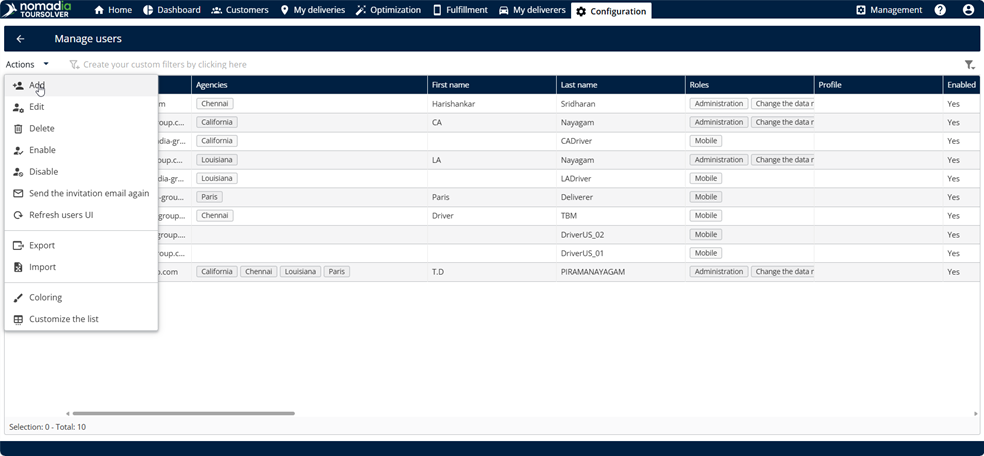
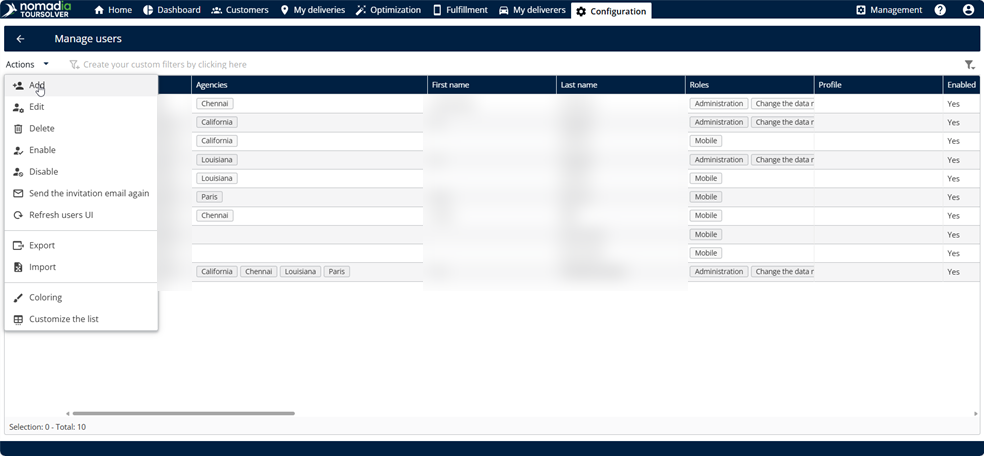
Apply the review feedback of 16 November: downloadable use-case files, removed points, blurred user data

diff --git a/operationsandroutemanagement/diagnose-unplanned-visits-and-inconsistent-routes.md b/operationsandroutemanagement/diagnose-unplanned-visits-and-inconsistent-routes.md
@@ -39,7 +39,6 @@ For the messages about capacities, skills, and working days, see [Why are no vis
 <figure><img src="../.gitbook/assets/RouteDiagnosis_InaccessiblePoint_001.jpg" alt=""><figcaption></figcaption></figure>
 
 2. Correct the address or the coordinates of the visit. See [Fix Addresses That Are Not Geocoded](../importanddatasetup/fix-addresses-that-are-not-geocoded.md).
-3. If the address is correct, check that the means of transportation of the resources can reach it, and that the country of the visit is covered by your configuration.
 
 ## Fix the time windows
 
@@ -100,7 +99,11 @@ Two users get different routes when they do not optimize the same data with the 
 
 ## Use case: diagnose unplanned visits
 
-Download the sample file [UseCase\_RouteDiagnosis.xlsx](../.gitbook/assets/UseCase_RouteDiagnosis.xlsx). It contains 14 deliveries around Washington, DC, for resources that leave from Maryland. The **Use cases** sheet describes each row.
+Download the sample file below. It contains 14 deliveries around Washington, DC, for resources that leave from Maryland. The **Use cases** sheet describes each row.
+
+{% file src="../.gitbook/assets/UseCase_RouteDiagnosis.xlsx" %}
+UseCase_RouteDiagnosis.xlsx
+{% endfile %}
 
 | Row | Use case | Result in the Warnings window |
 | --- | -------- | ----------------------------- |

diff --git a/faq/why-is-my-optimization-slow-stuck-or-interrupted.md b/faq/why-is-my-optimization-slow-stuck-or-interrupted.md
@@ -45,7 +45,7 @@ Find out why an optimization takes a long time, seems stuck, or shows the messag
 
 ## Avoid simultaneous optimizations
 
-Several optimizations that run at the same time, in several browser tabs or by several users of your account, share the same resources and are slower.
+Several optimizations that run at the same time by several users of your account share the same resources and are slower.
 
 * Wait for an optimization to finish before you start another one.
 * Close the browser tabs that you do not use.
@@ -59,7 +59,11 @@ Several optimizations that run at the same time, in several browser tabs or by s
 
 ## Use case: optimize a large volume
 
-Download the sample file [UseCase\_LargeVolume.xlsx](../.gitbook/assets/UseCase_LargeVolume.xlsx). It contains 300 deliveries positioned with GPS coordinates around Washington, DC.
+Download the sample file below. It contains 300 deliveries positioned with GPS coordinates around Washington, DC.
+
+{% file src="../.gitbook/assets/UseCase_LargeVolume.xlsx" %}
+UseCase_LargeVolume.xlsx
+{% endfile %}
 
 1. Import the file in **My deliveries**, and then start the optimization with 15 resources over 5 days.
 2. Click **Detailed information**. After about 20 seconds, the first result already plans the 300 deliveries, with a **Time left** of 29 minutes.

diff --git a/faq/i-cannot-log-in-to-toursolver-web.md b/faq/i-cannot-log-in-to-toursolver-web.md
@@ -25,16 +25,7 @@ Solve the most common sign-in problems yourself, and find out what to send to su
 
 ## Reset a forgotten password
 
-If you have forgotten your password, follow these steps. For the complete procedure, see [Reset a forgotten password](../getting-started/log-in-to-toursolver.md#reset-a-forgotten-password).
-
-1. On the **Sign in to your account** page, click **Forgot your password?**.
-2. On the **Reset your password** page, enter the **E-mail address** of your TourSolver account, and then click **Send the validation code**.
-
-<figure><img src="../.gitbook/assets/LogIn_ForgotPassword_001.jpg" alt=""><figcaption></figcaption></figure>
-
-3. Type the validation code that you receive by email, and then click **Next**.
-4. Enter your new password twice, and then confirm.
-5. Log in with your new password.
+If you have forgotten your password, click **Forgot your password?** on the sign-in page. For the complete procedure, see [Reset a forgotten password](../getting-started/log-in-to-toursolver.md#reset-a-forgotten-password).
 
 If you do not receive the validation code:
 

diff --git a/operationsandroutemanagement/optimize-over-several-weeks-with-frequencies.md b/operationsandroutemanagement/optimize-over-several-weeks-with-frequencies.md
@@ -52,7 +52,11 @@ Plan visits that must be performed several times over a period, for example twic
 
 ## Use case: plan two visits per customer
 
-Download the sample file [UseCase\_Frequencies.xlsx](../.gitbook/assets/UseCase_Frequencies.xlsx). It contains 10 customers around Washington, DC, with an **Opening day** of **1-10** and a **Visit frequency** of **2/10**. The resources of the team work days 1 to 5.
+Download the sample file below. It contains 10 customers around Washington, DC, with an **Opening day** of **1-10** and a **Visit frequency** of **2/10**. The resources of the team work days 1 to 5.
+
+{% file src="../.gitbook/assets/UseCase_Frequencies.xlsx" %}
+UseCase_Frequencies.xlsx
+{% endfile %}
 
 1. Import the file and optimize it. No visit is planned: each customer shows "The frequency denominator is bigger than the number of days", because the resources work only 5 of the 10 days.
 2. In the file, change the **Visit frequency** to **2/5** and the **Opening day** to **1-5**, and then import and optimize it again.

diff --git a/importanddatasetup/manage-agencies.md b/importanddatasetup/manage-agencies.md
@@ -1,6 +1,6 @@
 # Manage Agencies
 
-Share your resources between your agencies, move users and deliverers from one agency to another, and transfer the rights of a user to another user.
+Share your resources between your agencies, and move users and deliverers from one agency to another.
 
 ## Before you begin
 
@@ -59,11 +59,6 @@ The deliverer belongs to the new agency and counts in its **Used resources**.
 ### Result
 
 The user sees the data of the new agency. A user can also keep several assigned agencies to see the data of each of them.
-
-## Transfer the rights of a user to another user
-
-1. Create the new user from the existing user, so that the new user gets the same **Roles & rights** and **Agencies**. See [Modify an existing user](importanddatasetup-createandmodifyauser.md#modify-an-existing-user).
-2. To also transfer the data of the user, such as the optimizations, contact support. See [Replace a user and keep their data](importanddatasetup-createandmodifyauser.md#replace-a-user-and-keep-their-data).
 
 ## Tips
 

diff --git a/faq/why-are-no-visits-planned-after-the-optimization.md b/faq/why-are-no-visits-planned-after-the-optimization.md
@@ -76,7 +76,11 @@ If the visits are compatible but some are still unplanned:
 
 ## Use case: visits that cannot be planned
 
-Download the sample file [UseCase\_UnplannedVisits.xlsx](../.gitbook/assets/UseCase_UnplannedVisits.xlsx). It contains 16 deliveries around Washington, DC, for resources with a capacity of 50 that work days 1 to 5. The **Use cases** sheet describes each row.
+Download the sample file below. It contains 16 deliveries around Washington, DC, for resources with a capacity of 50 that work days 1 to 5. The **Use cases** sheet describes each row.
+
+{% file src="../.gitbook/assets/UseCase_UnplannedVisits.xlsx" %}
+UseCase_UnplannedVisits.xlsx
+{% endfile %}
 
 * **D01 to D12**: Valid deliveries, which can be planned.
 * **E01**: Quantity **80**, larger than the vehicle capacity of **50**. Reason: "The vehicle's capacity is lower than the minimum quantity to deliver."

diff --git a/importanddatasetup/fix-addresses-that-are-not-geocoded.md b/importanddatasetup/fix-addresses-that-are-not-geocoded.md
@@ -56,7 +56,11 @@ Your deliveries are positioned correctly, and the optimization uses the right tr
 
 ## Use case: good and bad addresses
 
-Download the sample file [UseCase\_AddressQuality.xlsx](../.gitbook/assets/UseCase_AddressQuality.xlsx), and then import it in **My deliveries**. It contains ten addresses near Arlington, Virginia. The **Use case** column describes each row, and TourSolver ignores it at the import.
+Download the sample file below. Then import it in **My deliveries**. It contains ten addresses near Arlington, Virginia. The **Use case** column describes each row, and TourSolver ignores it at the import.
+
+{% file src="../.gitbook/assets/UseCase_AddressQuality.xlsx" %}
+UseCase_AddressQuality.xlsx
+{% endfile %}
 
 | Row | Address in the file | Result |
 | --- | ------------------- | ------ |

diff --git a/operationsandroutemanagement/evaluate-your-existing-routes.md b/operationsandroutemanagement/evaluate-your-existing-routes.md
@@ -76,7 +76,11 @@ If **Load evaluation routes** is greyed out or gives wrong results:
 
 ## Use case: compare last week's routes with the optimized routes
 
-Download the sample file [UseCase\_EvaluationMode.xlsx](../.gitbook/assets/UseCase_EvaluationMode.xlsx). It contains 20 deliveries around Washington, DC, delivered by **Truck1** and **Truck2** on day **1**, in a random order.
+Download the sample file below. It contains 20 deliveries around Washington, DC, delivered by **Truck1** and **Truck2** on day **1**, in a random order.
+
+{% file src="../.gitbook/assets/UseCase_EvaluationMode.xlsx" %}
+UseCase_EvaluationMode.xlsx
+{% endfile %}
 
 1. Import the file in **My deliveries**. The evaluation fields are mapped automatically.
 2. Optimize the deliveries with the team of **Truck1** and **Truck2**.

diff --git a/faq/why-is-my-excel-export-empty-incomplete-or-failed.md b/faq/why-is-my-excel-export-empty-incomplete-or-failed.md
@@ -59,7 +59,6 @@ An error 500 usually means that one of the displayed fields breaks the export.
 * **Route date**: The route date is available only in an export from the **Optimization** page.
 * **One sheet per resource**: When you generate one sheet per deliverer, an apostrophe or a special character in a resource name can block the export. Rename the resource without the apostrophe.
 * **Missing planned days**: Visits without a planned day can block the export. Check that all the exported visits are planned, or select only the planned routes.
-* **Dates shifted by four years**: If all the dates are shifted by about four years (1,462 days) when you open the file, your Excel uses the 1904 date system. In Excel, clear the **Use 1904 date system** option.
 
 ## Related topics
 

diff --git a/faq/how-do-i-increase-the-number-of-resources-licences-or-the-sms-quota.md b/faq/how-do-i-increase-the-number-of-resources-licences-or-the-sms-quota.md
@@ -57,10 +57,6 @@ After your subscription is updated, log out and log in again to see the new quot
 **Invalid code message**: The **Identifier** of an existing agency cannot be changed. If the message "Invalid code" appears when you save an agency, check the **Identifier** field. If the message persists, contact support.
 {% endhint %}
 
-{% hint style="info" %}
-**Transfer the rights of a user**: To give the rights and the data of a user to another user, see [Transfer the rights of a user to another user](../importanddatasetup/manage-agencies.md#transfer-the-rights-of-a-user-to-another-user).
-{% endhint %}
-
 ## Related topics
 
 * [Manage Agencies](../importanddatasetup/manage-agencies.md)

diff --git a/faq/why-do-i-get-an-error-when-i-import-my-file.md b/faq/why-do-i-get-an-error-when-i-import-my-file.md
@@ -42,7 +42,6 @@ Most import errors come from a value that does not match the format of its field
 
 ## Prepare the file
 
-* **Use the .xlsx format**: Prefer Excel (.xlsx) files. The .ods format has a known import problem.
 * **Keep one sheet per file**: Put all your deliveries in one sheet, and remove the other sheets.
 * **Remove the unused columns**: Delete the empty or unused columns that are mapped to a constraint, for example the evaluation fields when you do not use the evaluation mode.
 * **Use a dot for decimals**: Write **2.5**, not **2,5**.

diff --git a/faq/why-does-my-export-to-webfleet-google-calendar-or-google-sheets-fail.md b/faq/why-does-my-export-to-webfleet-google-calendar-or-google-sheets-fail.md
@@ -35,7 +35,7 @@ Also check that each resource is linked to its WEBFLEET vehicle:
 ## Solve "Google Calendar export error"
 
 1. If TourSolver shows "Failed to login to Google, check that popups are not blocked", allow the pop-ups for TourSolver in your browser.
-2. Authorize Geoconcept again to access your Google account, and then export again.
+2. Authorize Nomadia again to access your Google account, and then export again.
 
 ## Solve "Google Sheets" error 403
 
